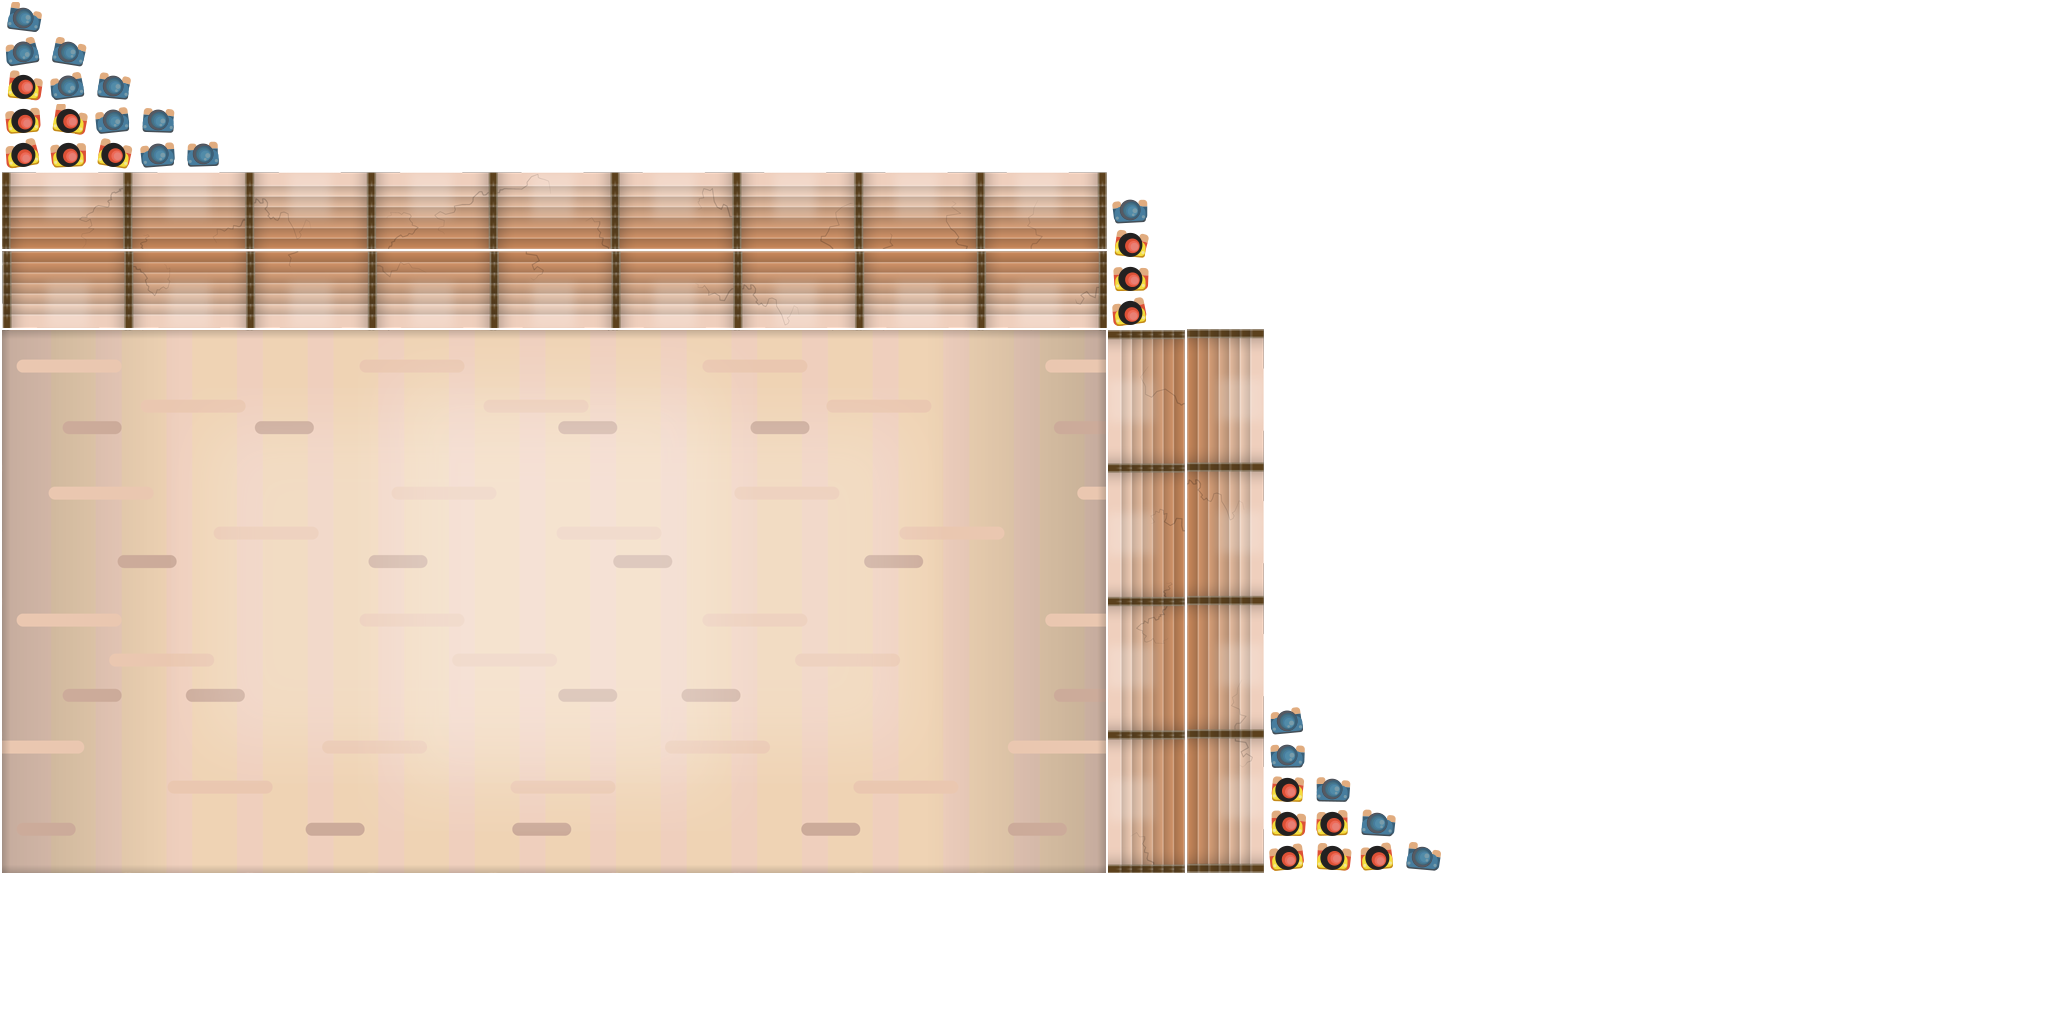
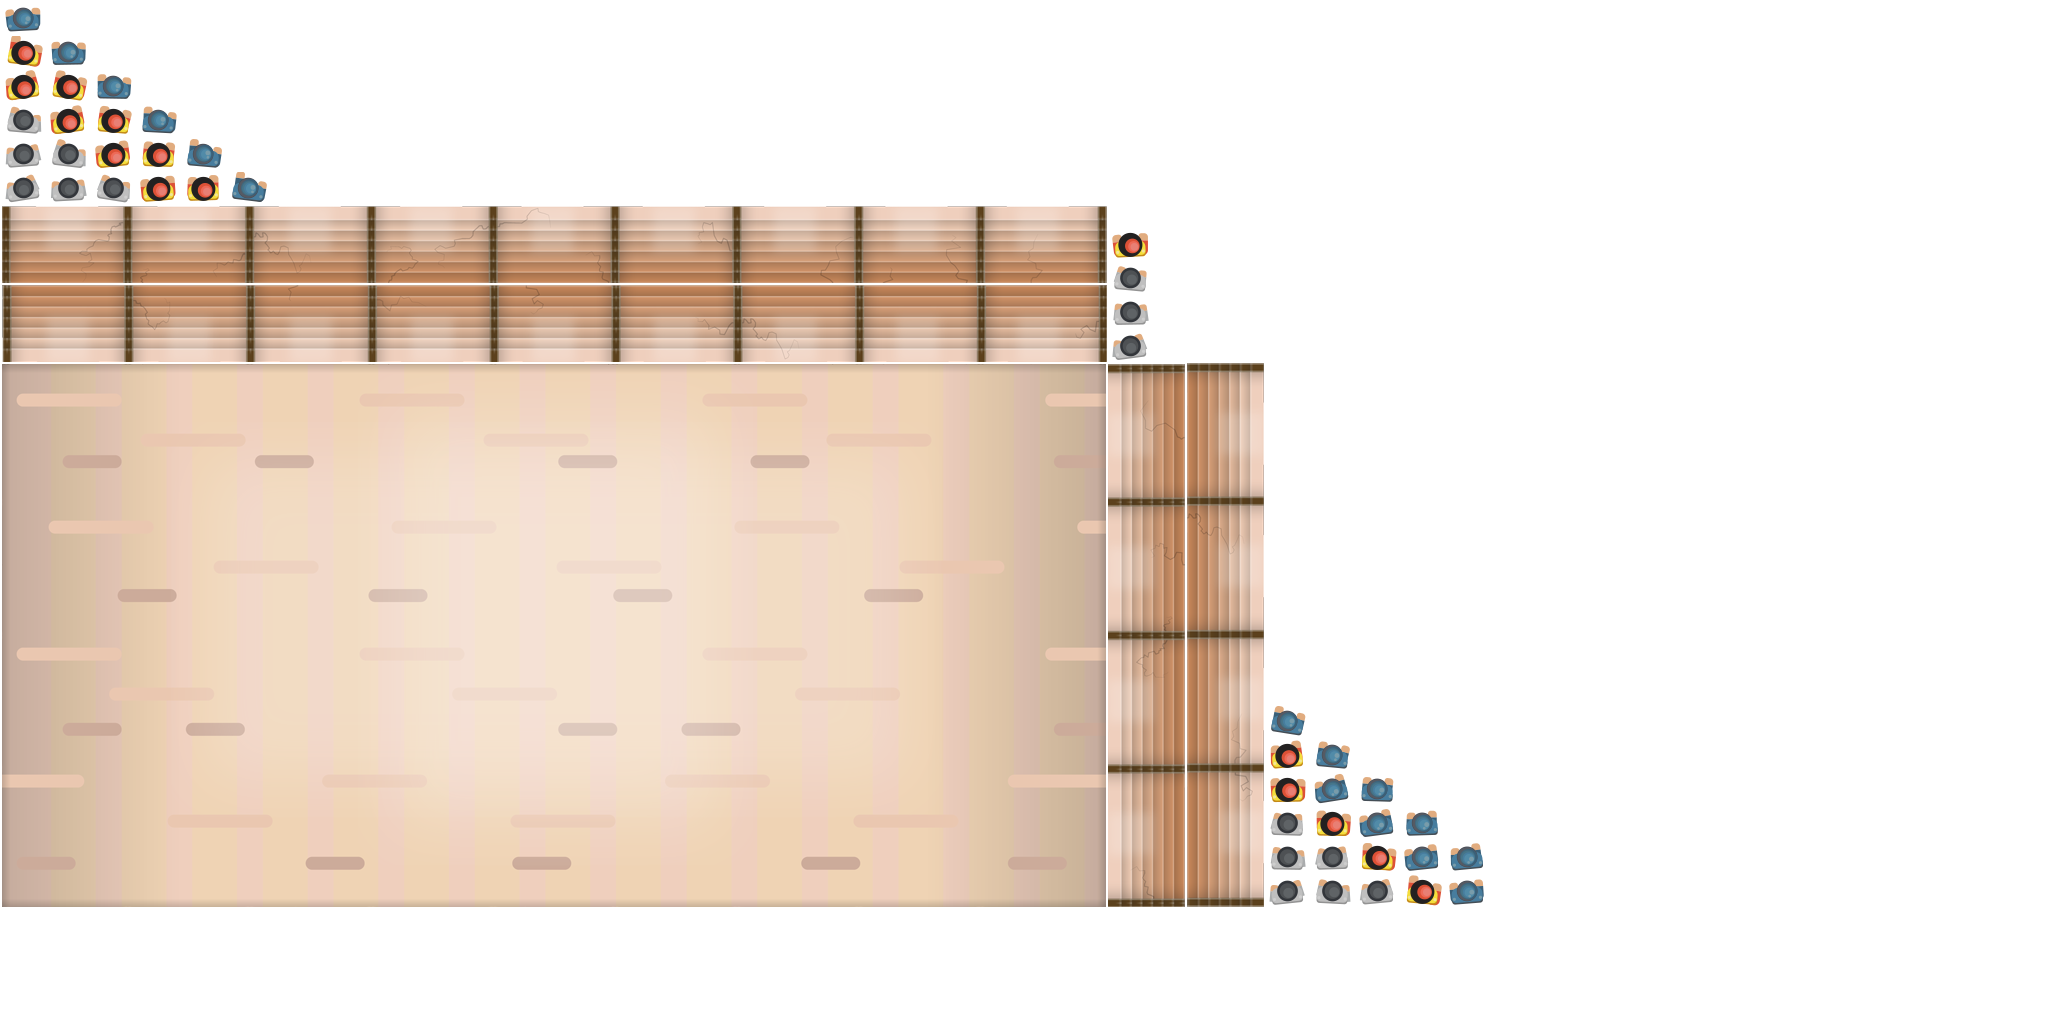
Neutral graphics

diff --git a/core/src/com/mygdx/game/entities/Walker.java b/core/src/com/mygdx/game/entities/Walker.java
@@ -6,12 +6,15 @@ import com.badlogic.gdx.ai.steer.behaviors.RaycastObstacleAvoidance;
 import com.badlogic.gdx.ai.steer.behaviors.Wander;
 import com.badlogic.gdx.ai.steer.utils.rays.CentralRayWithWhiskersConfiguration;
 import com.badlogic.gdx.graphics.Color;
+import com.badlogic.gdx.graphics.g2d.Animation;
 import com.badlogic.gdx.graphics.g2d.SpriteBatch;
+import com.badlogic.gdx.graphics.g2d.TextureRegion;
 import com.badlogic.gdx.graphics.glutils.ShapeRenderer;
 import com.badlogic.gdx.math.MathUtils;
 import com.badlogic.gdx.math.Vector2;
 import com.badlogic.gdx.physics.box2d.Body;
 import com.badlogic.gdx.physics.box2d.BodyDef;
+import com.mygdx.game.G;
 import com.mygdx.game.model.GameWorld;
 import com.mygdx.game.model.PhysicsObject;
 import com.mygdx.game.utils.BodySteerable;
@@ -29,6 +32,7 @@ public class Walker extends Entity implements PhysicsObject {
 
     // Physics
     private Body body;
+    private Vector2 velocity = new Vector2();
     private float mass;
     private BodySteerable steerable;
     private Wander<Vector2> wander;
@@ -37,9 +41,19 @@ public class Walker extends Entity implements PhysicsObject {
     private BlendedSteering<Vector2> steering;
     private boolean flagForDelete = false;
 
+    // Animation
+    private float animTime;
+    private Animation animation;
+    private TextureRegion animFrame;
+
     public Walker (float x, float y, float radius, GameWorld gameWorld, Color color) {
         super(x, y, radius * 2, radius * 2);
         this.color = color;
+
+        // Animation
+        this.animation = new Animation(0.033f, G.assets.getAtlas(G.A.ATLAS).findRegions(G.A.TEAMN));
+        this.animation.setPlayMode(Animation.PlayMode.LOOP);
+        this.animFrame = animation.getKeyFrame(animTime);
 
         this.body = gameWorld.getBox2DWorld().getBodyBuilder()
                 .fixture(gameWorld.getBox2DWorld().getFixtureDefBuilder()
@@ -89,13 +103,17 @@ public class Walker extends Entity implements PhysicsObject {
 
     @Override
     public void draw(SpriteBatch batch) {
-
+        animFrame = animation.getKeyFrame(animTime);
+        batch.draw(animFrame, position.x - animFrame.getRegionWidth() * G.INV_SCALE / 2,
+                position.y - animFrame.getRegionHeight() * G.INV_SCALE / 2,
+                animFrame.getRegionWidth() / 2 * G.INV_SCALE, animFrame.getRegionHeight() / 2 * G.INV_SCALE,
+                animFrame.getRegionWidth() * G.INV_SCALE, animFrame.getRegionHeight() * G.INV_SCALE, 1, 1, rotation);
     }
 
     private static Vector2 tmp = new Vector2();
     @Override public void drawDebug (ShapeRenderer shapeRenderer) {
-        shapeRenderer.setColor(color);
-        shapeRenderer.circle(position.x, position.y, bounds.width/2, 16);
+//        shapeRenderer.setColor(color);
+//        shapeRenderer.circle(position.x, position.y, bounds.width/2, 16);
 
         if (debugDrawAvoidence || debugDrawWander) {
             shapeRenderer.end();
@@ -138,6 +156,9 @@ public class Walker extends Entity implements PhysicsObject {
     @Override
     public void update(float delta) {
         position.set(body.getPosition());
+        velocity.set(body.getLinearVelocity());
+        rotation = body.getAngle() * MathUtils.radDeg;
+
         // note this is garbage
         steering.calculateSteering(steeringOutput);
         // Update position and linear velocity.
@@ -151,6 +172,10 @@ public class Walker extends Entity implements PhysicsObject {
             // this method internally scales the torque by deltaTime
             body.applyTorque(steeringOutput.angular, true);
         }
+
+
+        float animSpeed = MathUtils.clamp(velocity.len(), 0, 1);
+        animTime += delta * animSpeed;
     }
 
     @Override

diff --git a/core/src/com/mygdx/game/model/GameWorld.java b/core/src/com/mygdx/game/model/GameWorld.java
@@ -101,7 +101,7 @@ public class GameWorld implements ContactListener {
         entityManager.addEntity(sacrifice);
 
         // Some walkers
-        for (int i = 0; i < 15; i++) {
+        for (int i = 0; i < 40; i++) {
             float x = MathUtils.random(100 + 15, 100 + 1080 - 15) * G.INV_SCALE;
             float y = MathUtils.random(100 + 15, 100 + 520 - 15) * G.INV_SCALE;
             entityManager.addEntity(new Walker(x, y, .25f, this, Color.YELLOW));

diff --git a/core/src/com/mygdx/game/G.java b/core/src/com/mygdx/game/G.java
@@ -28,6 +28,7 @@ public class G {
         public static final String TRIBUNES_RIGHT= "trybuny_prawo";
         public static final String TEAMA= "teamA";
         public static final String TEAMB= "teamB";
+        public static final String TEAMN= "TeamNeutral";
 
     }
 }
